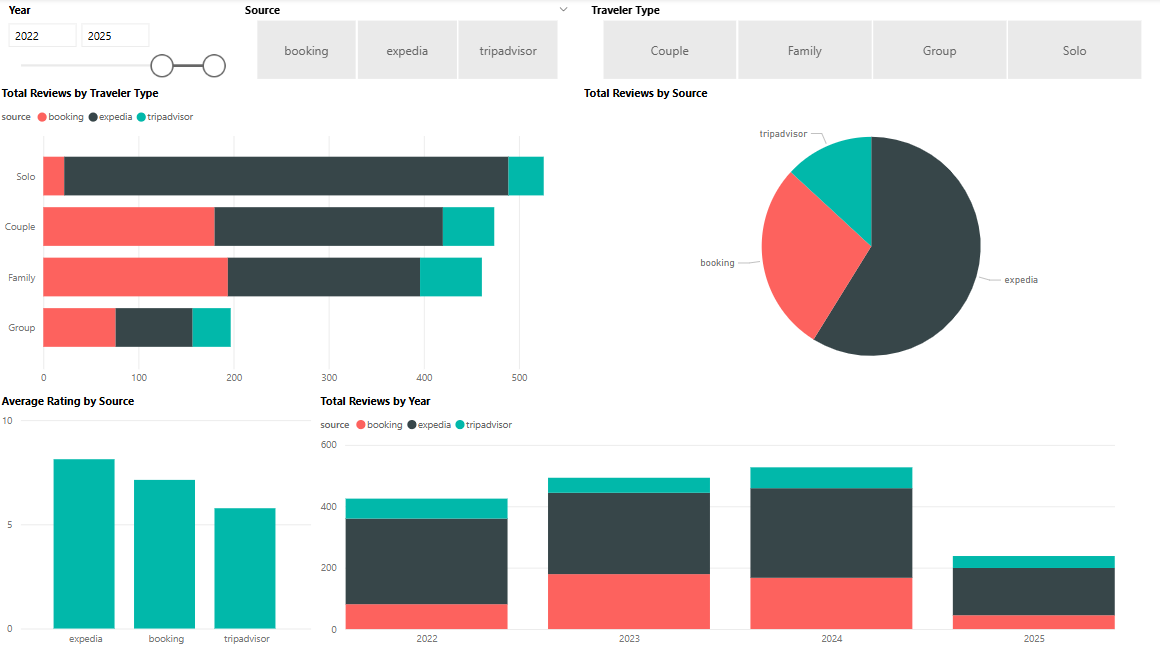
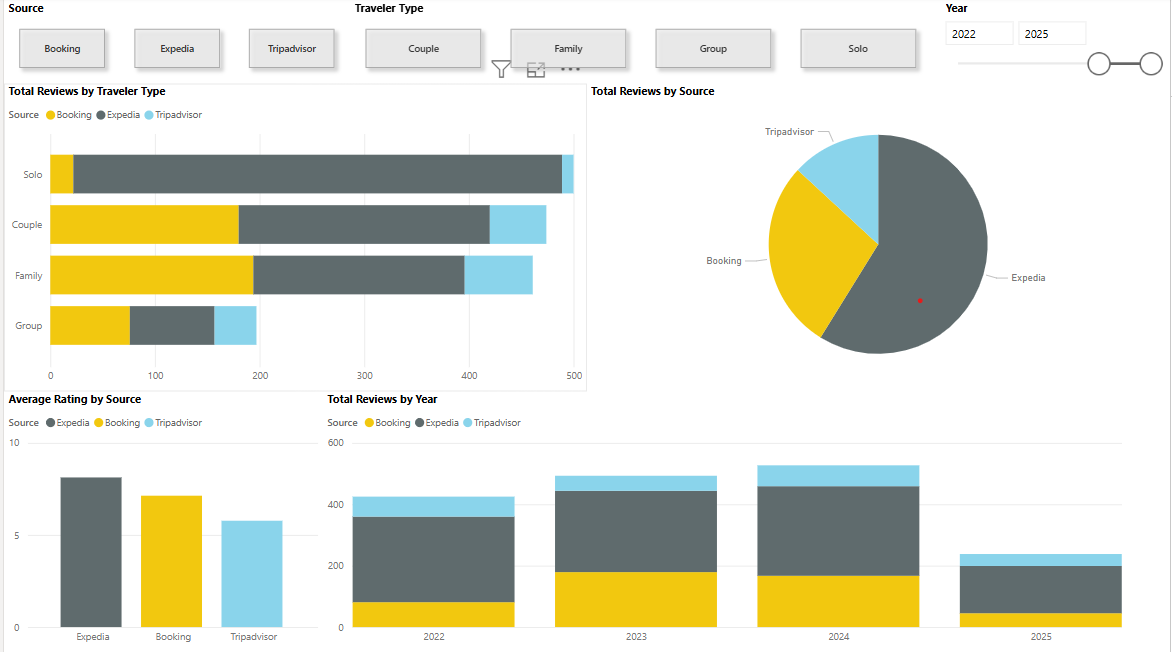
Add files via upload

diff --git a/dataCleaner.py b/dataCleaner.py
@@ -25,9 +25,9 @@ for df in [df_booking, df_expedia, df_tripadvisor]:
     df.columns = df.columns.str.strip().str.lower()
 
 # --- Add source column ---
-df_booking["source"] = "booking"
-df_expedia["source"] = "expedia"
-df_tripadvisor["source"] = "tripadvisor"
+df_booking["source"] = "Booking"
+df_expedia["source"] = "Expedia"
+df_tripadvisor["source"] = "Tripadvisor"
 
 # Format total reviews field
 for df in [df_booking]:
